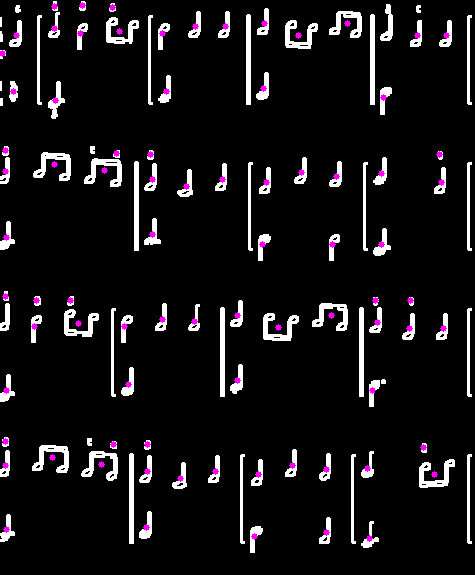
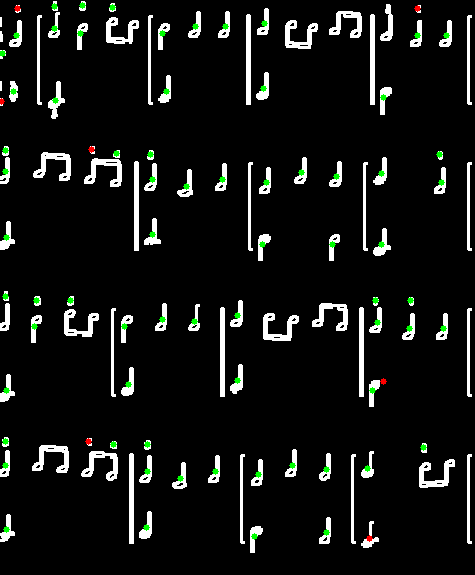
correctly identified filled and unfilled noteheads

diff --git a/note_head_detection.py b/note_head_detection.py
@@ -17,25 +17,29 @@ def apply_method1(image_array):
 
     return canny_edges, dilated_edges
 
+
 def apply_method2(image_array):
-    """Apply median blur, adaptive thresholding, and morphological closing to outline noteheads in red."""
+    """Remove stems while preserving noteheads using median blur, adaptive thresholding, and morphological operations."""
+
     # Convert image to OpenCV format (uint8 array)
     processed_img_cv = image_array.astype(np.uint8)
 
-    # Apply Median Blur to reduce noise
-    blurred_img = cv2.medianBlur(processed_img_cv, 3)  # Using a 3x3 kernel
+    # Step 1: Apply a light Median Blur to reduce noise but keep noteheads
+    blurred_img = cv2.medianBlur(processed_img_cv, 3)  # 3x3 to avoid removing hollow noteheads
 
-    # Apply Gaussian Adaptive Thresholding
+    # Step 2: Apply Gaussian Adaptive Thresholding
     adaptive_threshold = cv2.adaptiveThreshold(blurred_img, 255,
                                                cv2.ADAPTIVE_THRESH_GAUSSIAN_C,
                                                cv2.THRESH_BINARY_INV,
-                                               15, 2)  # Adjust block size and C
+                                               15, 1)  # Adjusted C to preserve noteheads
 
-    # Define a kernel size for morphological operations
-    kernel = np.ones((5, 5), np.uint8)  # Larger kernel for closing
+    # Step 3: Remove vertical stems using **horizontal erosion**
+    horizontal_kernel = cv2.getStructuringElement(cv2.MORPH_RECT, (3, 1))  # Wide but short
+    eroded = cv2.erode(adaptive_threshold, horizontal_kernel, iterations=1)
 
-    # Perform Morphological Closing to enhance the outlines
-    closed_img = cv2.morphologyEx(adaptive_threshold, cv2.MORPH_CLOSE, kernel)
+    # Step 4: Restore noteheads using morphological closing
+    closing_kernel = cv2.getStructuringElement(cv2.MORPH_RECT, (3, 3))
+    closed_img = cv2.morphologyEx(eroded, cv2.MORPH_CLOSE, closing_kernel)
 
     # Convert to color images for drawing contours
     color_img_gaussian = cv2.cvtColor(adaptive_threshold, cv2.COLOR_GRAY2BGR)
@@ -50,7 +54,6 @@ def apply_method2(image_array):
     cv2.drawContours(color_img_closing, contours_closing, -1, (0, 255, 0), 2)
 
     return blurred_img, adaptive_threshold, color_img_gaussian, color_img_closing
-
 def detect_blobs(image, method_name):
     """Apply blob detection based on circularity, aspect ratio, and size, and save the results."""
     # Ensure image is in grayscale format (single-channel)
@@ -66,10 +69,13 @@ def detect_blobs(image, method_name):
     contours, _ = cv2.findContours(image_cv, cv2.RETR_EXTERNAL, cv2.CHAIN_APPROX_SIMPLE)
 
     # Define thresholds for filtering
-    circularity_threshold = 0.1  # Higher threshold for more circular shapes
+    circularity_threshold = 0.2  # Lower threshold to include less circular shapes
     aspect_ratio_threshold = 2.8  # Maximum aspect ratio for noteheads
-    min_area = 30  # Minimum area for noteheads
+    min_area = 1  # Lower minimum area to detect small dots
     max_area = 500  # Maximum area for noteheads
+    solidity_threshold = 0.5  # Lower threshold to include less solid shapes
+    contour_completeness_threshold = 0.4  # Lower threshold for contour completeness
+    small_dot_area_threshold = 30  # Maximum area for small dots to be classified as unfilled
 
     # Create an RGB version of the image to draw colored dots
     blob_img_color = cv2.cvtColor(image_cv, cv2.COLOR_GRAY2BGR)
@@ -91,6 +97,15 @@ def detect_blobs(image, method_name):
         # Calculate aspect ratio
         aspect_ratio = float(w) / h if w > h else float(h) / w
 
+        # Calculate solidity (area / convex hull area)
+        hull = cv2.convexHull(contour)
+        hull_area = cv2.contourArea(hull)
+        solidity = float(area) / hull_area if hull_area > 0 else 0
+
+        # Calculate contour completeness (perimeter / convex hull perimeter)
+        hull_perimeter = cv2.arcLength(hull, True)
+        contour_completeness = perimeter / hull_perimeter if hull_perimeter > 0 else 0
+
         # Apply filters
         if (circularity > circularity_threshold and
             aspect_ratio < aspect_ratio_threshold and
@@ -101,13 +116,22 @@ def detect_blobs(image, method_name):
             if M['m00'] != 0:
                 cx = int(M['m10'] / M['m00'])
                 cy = int(M['m01'] / M['m00'])
-                cv2.circle(blob_img_color, (cx, cy), 3, (255, 0, 255), -1)  # Draw a magenta dot
+
+                # Determine if the notehead is filled or unfilled based on solidity, contour completeness, and size
+                if area < small_dot_area_threshold:
+                    # Small dots are classified as unfilled noteheads (draw with red color)
+                    cv2.circle(blob_img_color, (cx, cy), 3, (0, 0, 255), -1)
+                elif solidity > solidity_threshold and contour_completeness > contour_completeness_threshold:
+                    # Filled notehead (draw with green color)
+                    cv2.circle(blob_img_color, (cx, cy), 3, (0, 255, 0), -1)
+                else:
+                    # Unfilled notehead (draw with red color)
+                    cv2.circle(blob_img_color, (cx, cy), 3, (0, 0, 255), -1)
 
     # Save the blob-detected image
     blob_save_path = os.path.join('notehead_images', f"{method_name}_blobs.png")
     cv2.imwrite(blob_save_path, blob_img_color)
     print(f"{method_name} Blob-detected image saved at: {blob_save_path}")
-
 
 def notes_detect(processed_image_path):
     print(f"Loading processed image from: {processed_image_path}")
@@ -128,7 +152,6 @@ def notes_detect(processed_image_path):
 
         # Crop the image from the right
         cropped_img_array = processed_img_array[:, crop_width:]
-
 
     except Exception as e:
         print(f"Error loading or cropping image: {e}")
